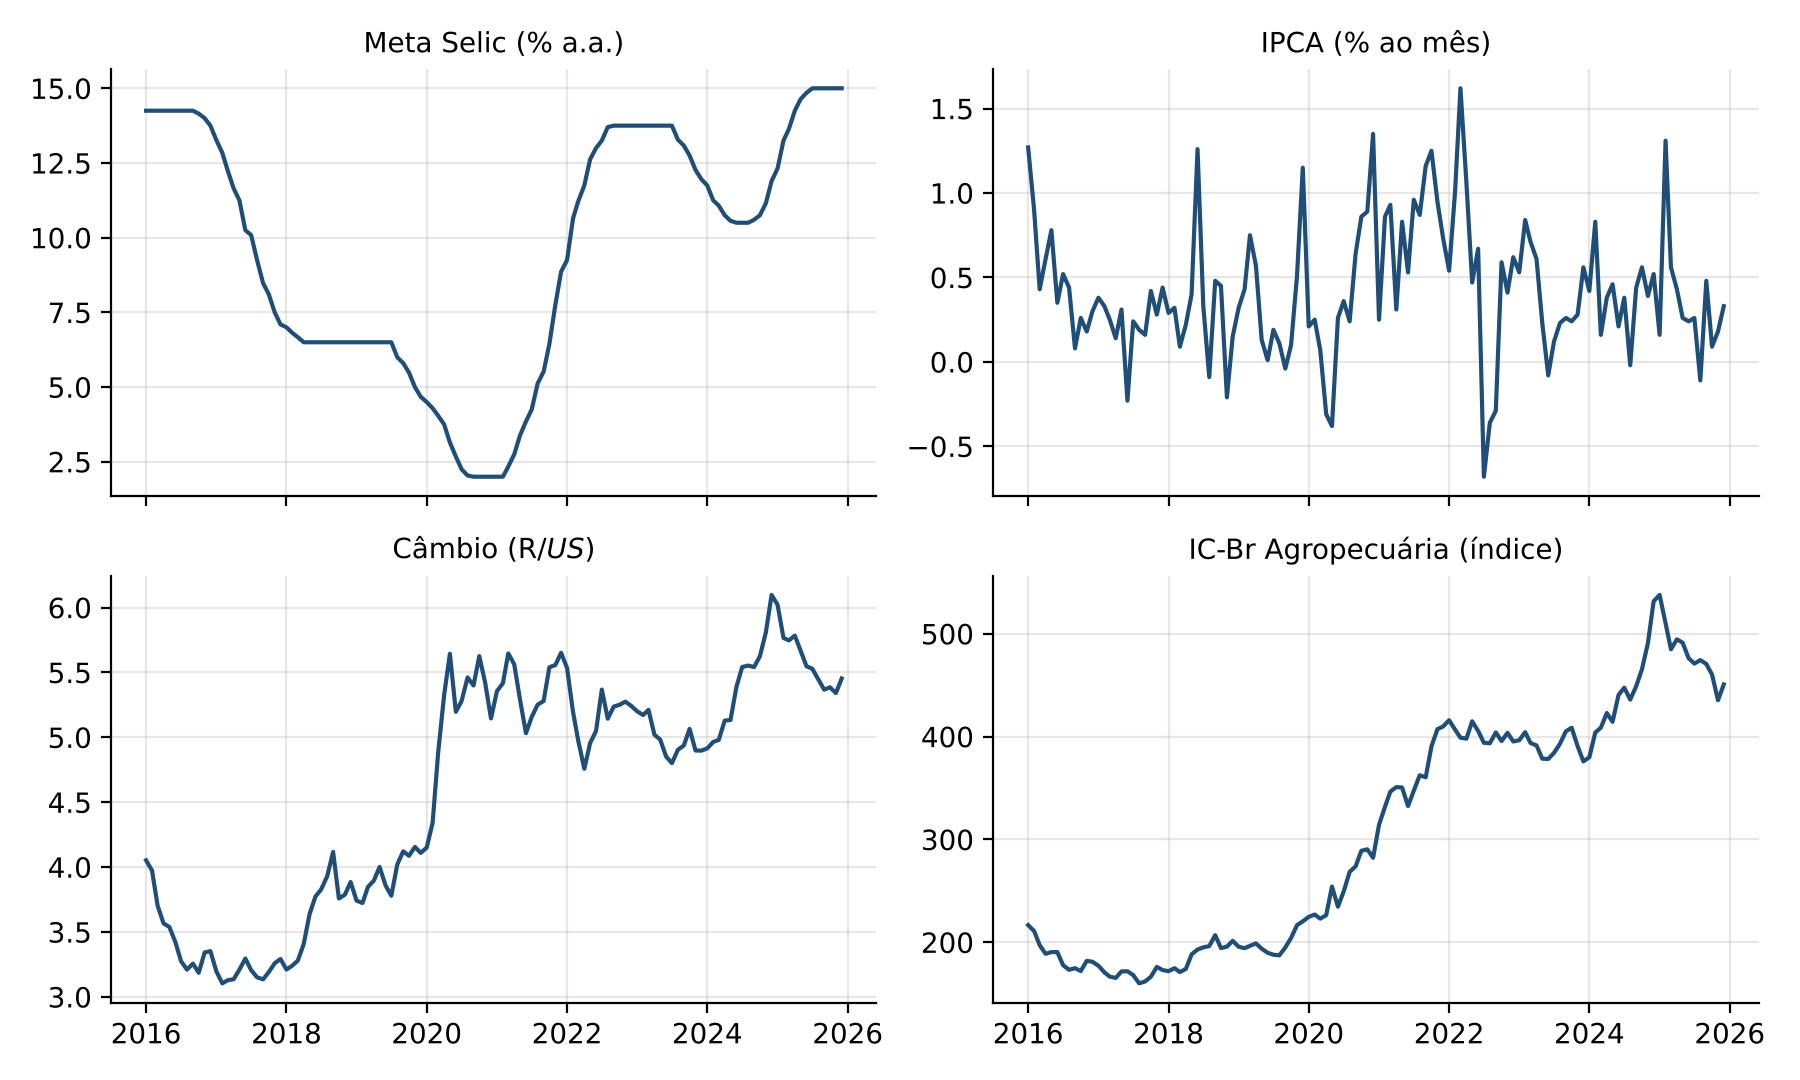
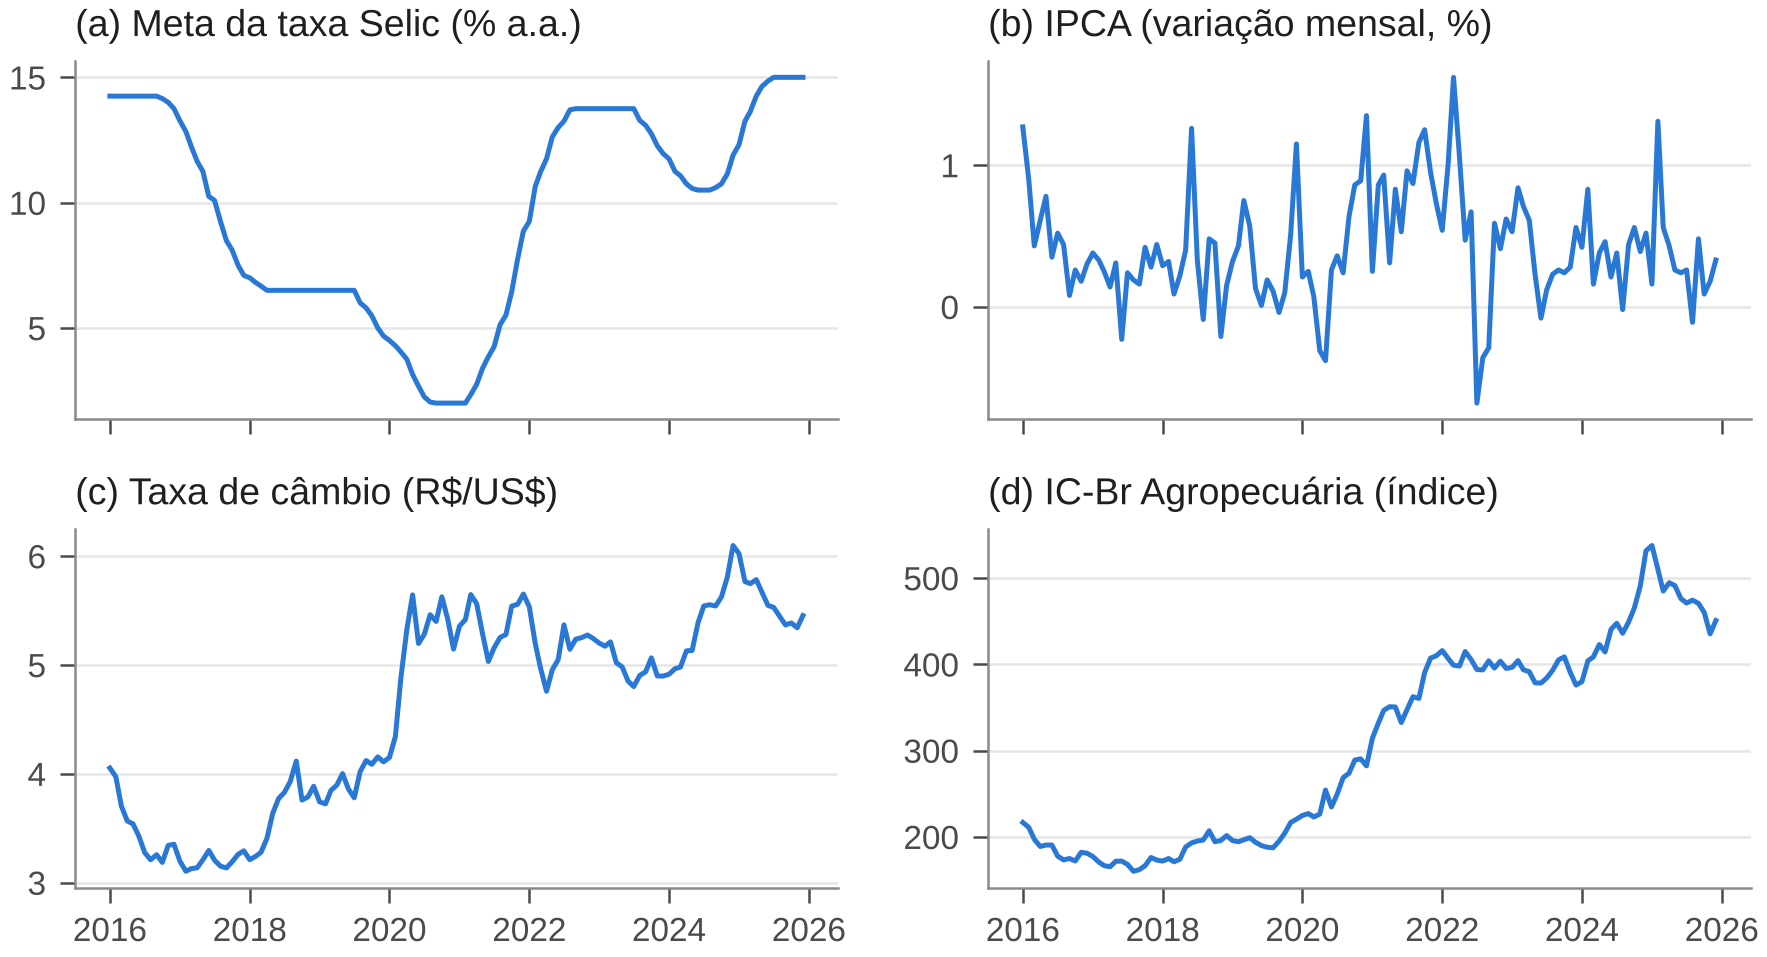
Figuras no tamanho real de impressão, fonte equivalente à Arial e vírgula decimal

diff --git a/07_figuras.py b/07_figuras.py
@@ -11,6 +11,7 @@ import matplotlib.dates as mdates
 import matplotlib.pyplot as plt
 import numpy as np
 import pandas as pd
+from matplotlib.ticker import MultipleLocator
 from statsmodels.graphics.tsaplots import plot_acf
 
 from comum import SAIDA, ajusta_sarimax, df, ler_resultados, y
@@ -18,15 +19,36 @@ from comum import SAIDA, ajusta_sarimax, df, ler_resultados, y
 R = ler_resultados()
 MODELOS = list(R["teste_2025"].keys())
 HORIZONTES = [1, 3, 6]
-R["origem_movel"] = {int(h): v for h, v in R["origem_movel"].items()}
 idx_2025 = df.index[-12:]
 prev_2025 = {m: pd.Series(v, index=idx_2025) for m, v in R["prev_2025"].items()}
 r_sar = ajusta_sarimax(y)
 
-# ------------------------------------------------- Figuras
-plt.rcParams.update({"font.family": "DejaVu Sans", "font.size": 10, "axes.grid": True,
-                     "grid.alpha": 0.3, "axes.spines.top": False, "axes.spines.right": False})
-AZUL, LARANJA, CINZA = "#1f4e79", "#c55a11", "#7f7f7f"
+# Estilo: figuras geradas no tamanho real de impressão (15,5 cm de largura),
+# fonte equivalente à Arial (Liberation Sans, mesmas métricas) e paleta validada.
+CM = 1 / 2.54
+LARGURA = 15.5 * CM
+AZUL, LARANJA, CINZA, CINZA_CLARO, TINTA = "#2a78d6", "#eb6834", "#6b6b6b", "#c9c9c9", "#1f1f1f"
+plt.rcParams.update({
+    "font.family": ["Arial", "Liberation Sans", "DejaVu Sans"], "font.size": 8.5,
+    "axes.titlesize": 9, "axes.titleweight": "normal", "axes.labelsize": 8.5,
+    "xtick.labelsize": 8, "ytick.labelsize": 8, "legend.fontsize": 8,
+    "axes.edgecolor": "#8a8a8a", "axes.linewidth": 0.6, "axes.labelcolor": TINTA,
+    "xtick.color": "#4a4a4a", "ytick.color": "#4a4a4a", "xtick.major.width": 0.6, "ytick.major.width": 0.6,
+    "axes.spines.top": False, "axes.spines.right": False,
+    "axes.grid": True, "axes.grid.axis": "y", "grid.color": "#e6e6e6", "grid.linewidth": 0.6,
+    "lines.linewidth": 1.4, "savefig.dpi": 300, "figure.dpi": 100,
+    "axes.formatter.use_locale": False,
+})
+
+
+def virgula(ax, eixo="y", casas=None):
+    """Formata os números do eixo com vírgula decimal (padrão brasileiro)."""
+    from matplotlib.ticker import FuncFormatter
+
+    def fmt(v, _):
+        s = f"{v:.{casas}f}" if casas is not None else f"{v:g}"
+        return s.replace(".", ",").replace("-", "\u2212")
+    (ax.yaxis if eixo == "y" else ax.xaxis).set_major_formatter(FuncFormatter(fmt))
 
 
 def formata_datas(ax, meses=12, anos=1):
@@ -38,48 +60,93 @@ def formata_datas(ax, meses=12, anos=1):
         ax.xaxis.set_major_formatter(mdates.DateFormatter("%Y"))
 
 
-fig, ax = plt.subplots(figsize=(9, 3.6))
+def salvar(fig, nome):
+    fig.savefig(f"{SAIDA}/{nome}", bbox_inches="tight", pad_inches=0.03, facecolor="white")
+    plt.close(fig)
+
+
+# Figura 1 - séries de inadimplência
+fig, ax = plt.subplots(figsize=(LARGURA, 6.2 * CM))
 ax.plot(df.index, df["inad_rural_pf_mercado"], color=AZUL, label="Taxas de mercado (SGS 21146)")
 ax.plot(df.index, df["inad_rural_pf_regulada"], color=LARANJA, label="Taxas reguladas (SGS 21147)")
-ax.set_ylabel("Inadimplência (%)"); ax.set_xlabel("Período"); ax.legend(frameon=False); formata_datas(ax)
-fig.tight_layout(); fig.savefig(f"{SAIDA}/fig1_series.png", dpi=200); plt.close(fig)
+ax.set_ylabel("Inadimplência (%)"); formata_datas(ax); virgula(ax)
+ax.legend(frameon=False, loc="upper left")
+ax.set_xlim(df.index[0], df.index[-1] + pd.offsets.MonthBegin(1))
+salvar(fig, "fig1_series.png")
 
-fig, axs = plt.subplots(2, 2, figsize=(9, 5.4), sharex=True)
-for a, (c, t) in zip(axs.flat, [("selic", "Meta Selic (% a.a.)"), ("ipca", "IPCA (% ao mês)"),
-                                 ("cambio", "Câmbio (R$/US$)"), ("icbr_agro", "IC-Br Agropecuária (índice)")]):
-    a.plot(df.index, df[c], color=AZUL); a.set_title(t, fontsize=10); formata_datas(a, anos=2)
-fig.tight_layout(); fig.savefig(f"{SAIDA}/fig2_explicativas.png", dpi=200); plt.close(fig)
+# Figura 2 - variáveis explicativas (quatro painéis)
+fig, axs = plt.subplots(2, 2, figsize=(LARGURA, 8.6 * CM), sharex=True)
+for a, (c, t) in zip(axs.flat, [("selic", "(a) Meta da taxa Selic (% a.a.)"), ("ipca", "(b) IPCA (variação mensal, %)"),
+                                 ("cambio", "(c) Taxa de câmbio (R\\$/US\\$)"), ("icbr_agro", "(d) IC-Br Agropecuária (índice)")]):
+    a.plot(df.index, df[c], color=AZUL, lw=1.2); a.set_title(t, loc="left", color=TINTA)
+    formata_datas(a, anos=2); virgula(a)
+fig.tight_layout(h_pad=1.2, w_pad=1.5)
+salvar(fig, "fig2_explicativas.png")
 
-fig, axs = plt.subplots(1, 2, figsize=(9, 3.2))
-axs[0].plot(y.diff(), color=AZUL); axs[0].set_title("Primeira diferença", fontsize=10)
-axs[1].plot(y.diff().diff(), color=AZUL); axs[1].set_title("Segunda diferença", fontsize=10)
-for a in axs: a.set_ylabel("Pontos percentuais"); formata_datas(a, anos=2)
-fig.tight_layout(); fig.savefig(f"{SAIDA}/fig3_diferencas.png", dpi=200); plt.close(fig)
+# Figura 3 - diferenças da série alvo
+fig, axs = plt.subplots(1, 2, figsize=(LARGURA, 5.4 * CM), sharey=False)
+for a, (s, t) in zip(axs, [(y.diff(), "(a) Primeira diferença"), (y.diff().diff(), "(b) Segunda diferença")]):
+    a.axhline(0, color=CINZA_CLARO, lw=0.8)
+    a.plot(s, color=AZUL, lw=1.0); a.set_title(t, loc="left", color=TINTA)
+    formata_datas(a, anos=2); virgula(a)
+axs[0].set_ylabel("Pontos percentuais")
+fig.tight_layout(w_pad=1.5)
+salvar(fig, "fig3_diferencas.png")
 
-fig, axs = plt.subplots(3, 2, figsize=(9, 8), sharex=True, sharey=True)
+# Figura 4 - previsões de 2025 (seis painéis)
+fig, axs = plt.subplots(3, 2, figsize=(LARGURA, 15.5 * CM), sharex=True, sharey=True)
 hist = y.loc["2023-01-01":]
 for a, m in zip(axs.flat, ["ARIMA", "SARIMA", "SARIMAX", "SARIMAX-Agro", "VAR", "VAR-Agro"]):
-    a.plot(hist.index, hist, color=CINZA, label="Observado")
-    a.plot(prev_2025[m].index, prev_2025[m], color=LARANJA, marker="o", ms=3, label="Previsto")
-    a.set_title(m, fontsize=10); formata_datas(a, 6); a.tick_params(axis="x", rotation=30)
-for a in axs[:, 0]: a.set_ylabel("Inadimplência (%)")
-axs[0, 0].legend(frameon=False, loc="upper left")
-fig.tight_layout(); fig.savefig(f"{SAIDA}/fig4_previsoes_2025.png", dpi=200); plt.close(fig)
+    a.axvline(idx_2025[0] - pd.Timedelta(days=15), color=CINZA_CLARO, lw=0.8, ls="--")
+    a.plot(hist.index, hist, color=CINZA, lw=1.4, label="Observado")
+    a.plot(prev_2025[m].index, prev_2025[m], color=AZUL, lw=1.4, marker="o", ms=3, label="Previsto")
+    a.set_title(m, loc="left", color=TINTA)
+    formata_datas(a); a.xaxis.set_minor_locator(mdates.MonthLocator(bymonth=[4, 7, 10]))
+    a.yaxis.set_major_locator(MultipleLocator(3)); a.set_ylim(0, 13.5); virgula(a)
+for a in axs[:, 0]:
+    a.set_ylabel("Inadimplência (%)")
+h, l = axs[0, 0].get_legend_handles_labels()
+fig.legend(h, l, loc="upper center", ncol=2, frameon=False, bbox_to_anchor=(0.5, 1.01))
+fig.tight_layout(rect=(0, 0, 1, 0.97), h_pad=1.0, w_pad=1.2)
+salvar(fig, "fig4_previsoes_2025.png")
 
-fig, ax = plt.subplots(figsize=(9, 3.8))
-largura = 0.12
-for i, m in enumerate(MODELOS):
-    vals = [R["origem_movel"][h][m]["MAE"] for h in HORIZONTES]
-    ax.bar(np.arange(3) + (i - 3) * largura, vals, largura, label=m)
-ax.set_xticks(range(3)); ax.set_xticklabels([f"h = {h}" for h in HORIZONTES])
-ax.set_ylabel("MAE (pontos percentuais)"); ax.set_xlabel("Horizonte de previsão (meses)")
-ax.legend(frameon=False, ncol=4, fontsize=8)
-fig.tight_layout(); fig.savefig(f"{SAIDA}/fig5_origem_movel.png", dpi=200); plt.close(fig)
+# Figura 5 - MAE na validação com origem móvel (gráfico de pontos por horizonte)
+fig, axs = plt.subplots(1, 3, figsize=(LARGURA, 6.4 * CM), sharey=True)
+ordem = sorted(MODELOS, key=lambda m: R["origem_movel"]["6"][m]["MAE"], reverse=True)
+for a, h in zip(axs, HORIZONTES):
+    vals = [R["origem_movel"][str(h)][m]["MAE"] for m in ordem]
+    cores = [AZUL if m == "SARIMA" else CINZA for m in ordem]
+    ypos = range(len(ordem))
+    a.hlines(ypos, 0, vals, color=CINZA_CLARO, lw=1.0)
+    a.scatter(vals, ypos, color=cores, s=26, zorder=3)
+    for yy, v, m in zip(ypos, vals, ordem):
+        a.text(v + max(vals) * 0.04, yy, f"{v:.3f}".replace(".", ","), va="center", fontsize=7.5,
+               color=AZUL if m == "SARIMA" else TINTA)
+    a.set_title(f"({'abc'[HORIZONTES.index(h)]}) h = {h} {'mês' if h == 1 else 'meses'}", loc="left", color=TINTA)
+    a.set_xlim(0, max(vals) * 1.38); a.grid(axis="y", visible=False); a.grid(axis="x", visible=True)
+    virgula(a, "x"); a.set_xlabel("MAE (p.p.)")
+axs[0].set_yticks(range(len(ordem))); axs[0].set_yticklabels(ordem)
+for lbl in axs[0].get_yticklabels():
+    if lbl.get_text() == "SARIMA":
+        lbl.set_color(AZUL)
+fig.tight_layout(w_pad=1.0)
+salvar(fig, "fig5_origem_movel.png")
 
+# Figura 6 - diagnóstico dos resíduos do SARIMA
 res_best = r_sar.resid.iloc[r_sar.loglikelihood_burn:]
-fig, axs = plt.subplots(1, 3, figsize=(10, 3.2))
-axs[0].plot(res_best, color=AZUL); axs[0].set_title("Resíduos", fontsize=10); formata_datas(axs[0], anos=2)
-axs[1].hist(res_best, bins=20, color=AZUL, density=True); axs[1].set_title("Distribuição", fontsize=10)
-plot_acf(res_best, lags=24, ax=axs[2], color=AZUL); axs[2].set_title("Função de autocorrelação", fontsize=10)
-fig.tight_layout(); fig.savefig(f"{SAIDA}/fig6_residuos.png", dpi=200); plt.close(fig)
+fig, axs = plt.subplots(1, 3, figsize=(LARGURA, 5.2 * CM))
+axs[0].axhline(0, color=CINZA_CLARO, lw=0.8)
+axs[0].plot(res_best, color=AZUL, lw=1.0); axs[0].set_title("(a) Resíduos", loc="left", color=TINTA)
+formata_datas(axs[0], anos=2); virgula(axs[0])
+axs[1].hist(res_best, bins=18, color=AZUL, edgecolor="white", linewidth=0.6)
+axs[1].set_title("(b) Distribuição", loc="left", color=TINTA); axs[1].set_ylabel("Frequência"); virgula(axs[1], "x")
+plot_acf(res_best, lags=24, ax=axs[2], color=AZUL, vlines_kwargs={"colors": AZUL, "lw": 1.0},
+         markersize=3, title="")
+for coll in axs[2].collections:
+    if "Poly" in coll.__class__.__name__:
+        coll.set_facecolor(CINZA_CLARO); coll.set_edgecolor("none"); coll.set_alpha(0.7)
+axs[2].set_title("(c) Função de autocorrelação", loc="left", color=TINTA); axs[2].set_xlabel("Defasagem (meses)")
+virgula(axs[2])
+fig.tight_layout(w_pad=1.2)
+salvar(fig, "fig6_residuos.png")
 print("Figuras salvas em", SAIDA)
